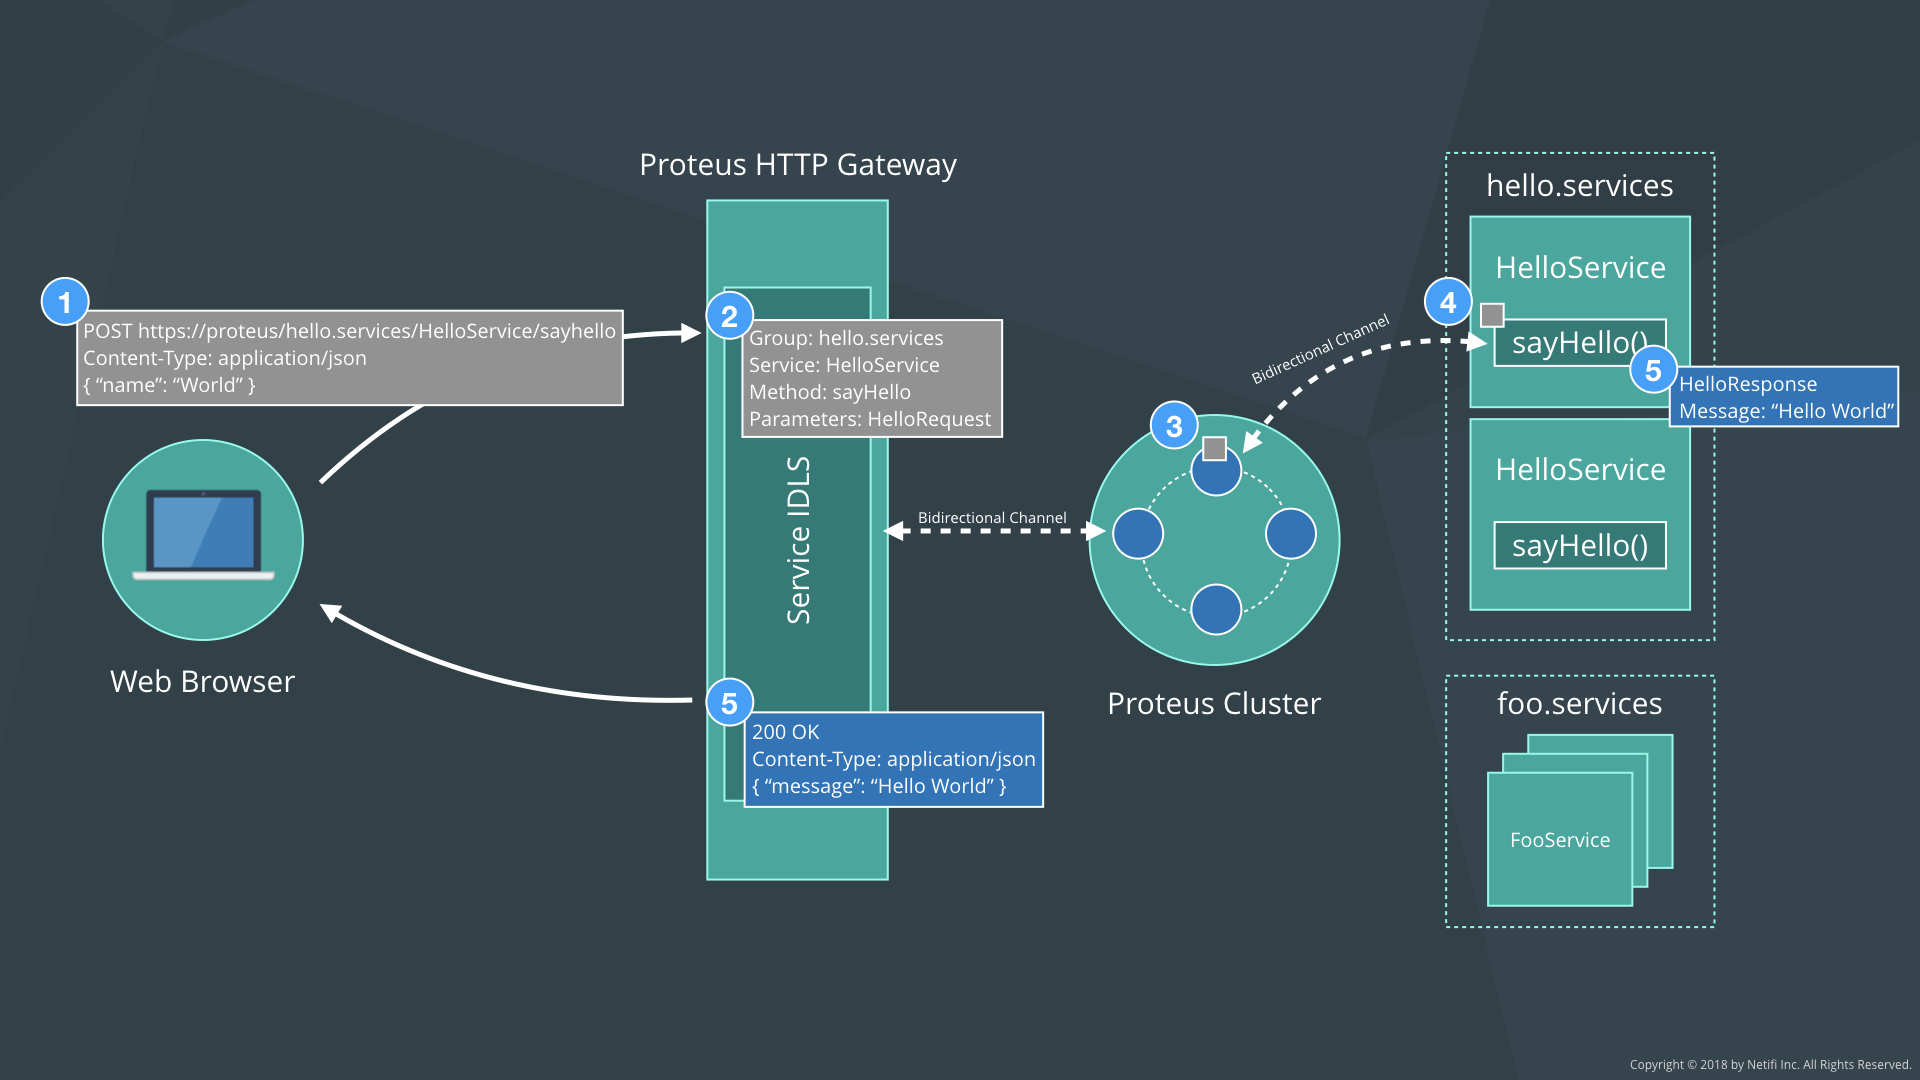
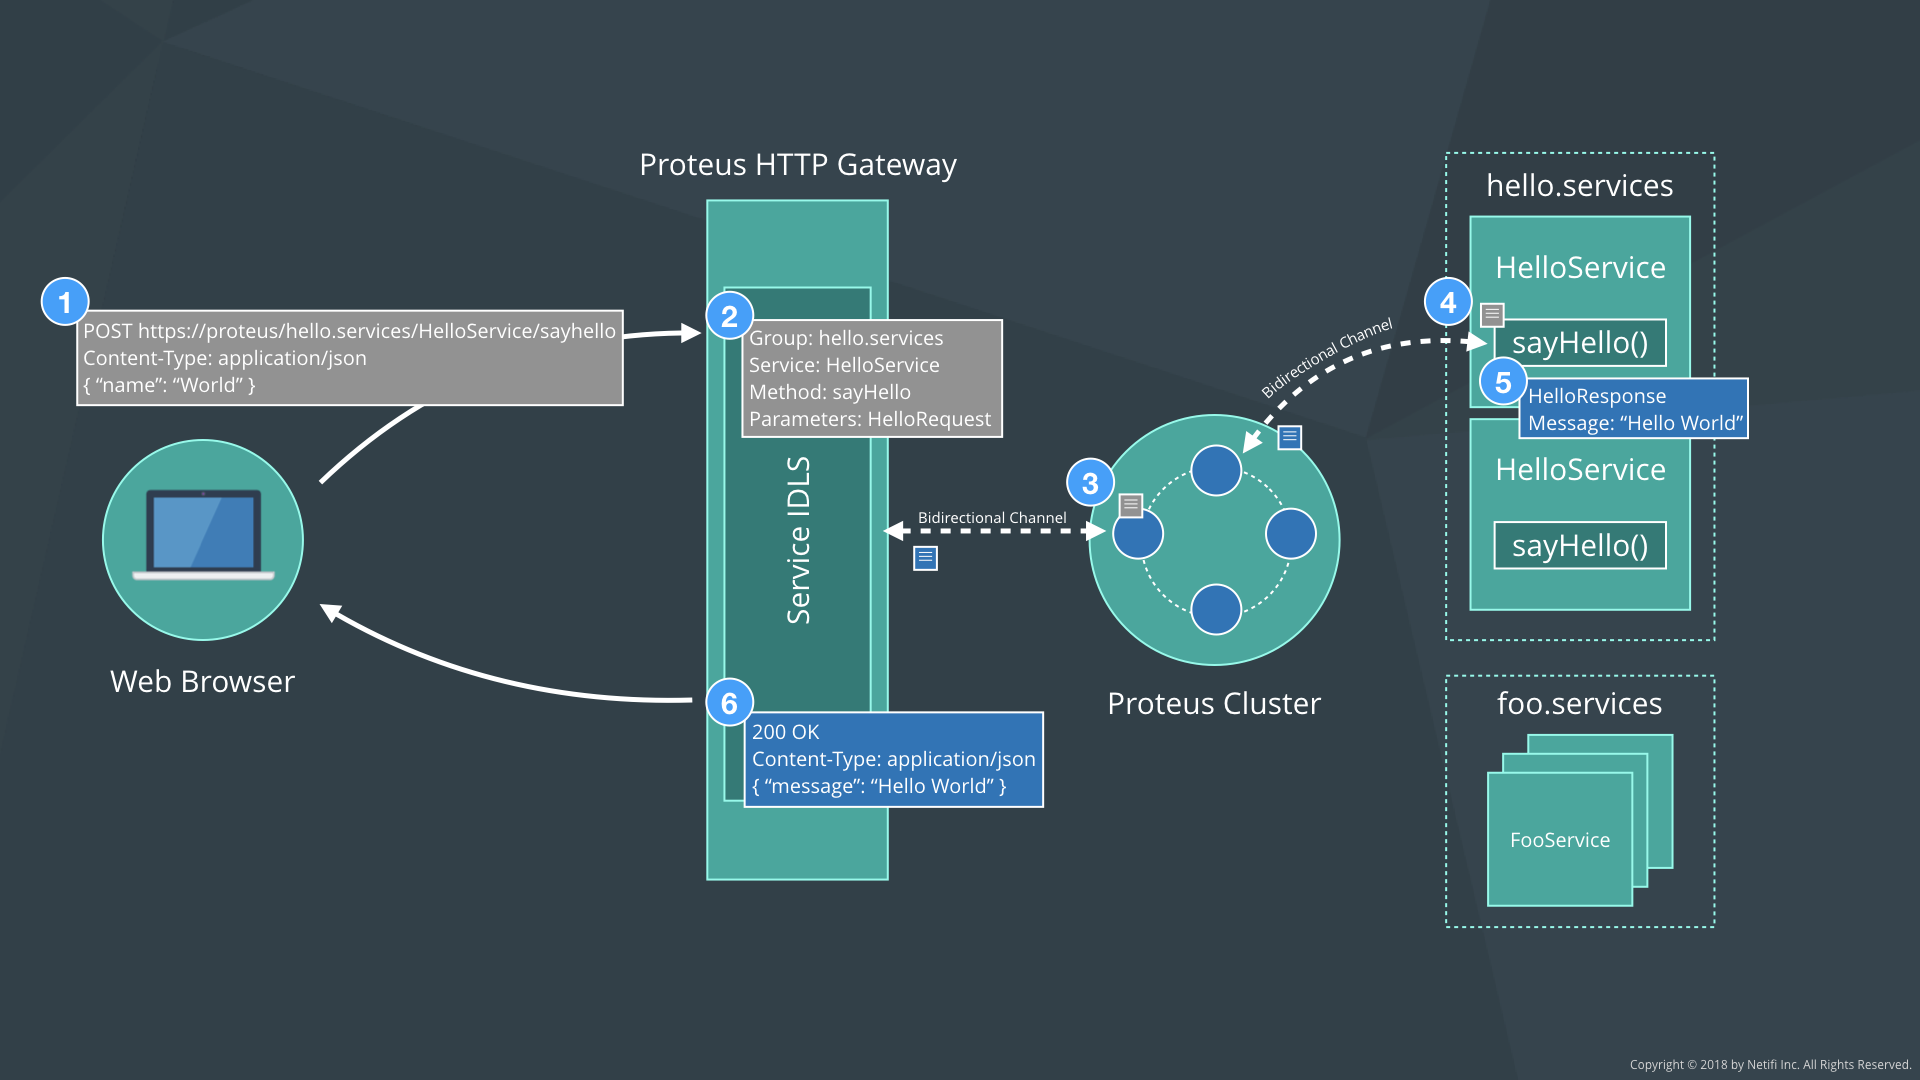
Doing work

diff --git a/README.md b/README.md
@@ -24,6 +24,14 @@ If a specific service instance is desired:
     
 The request body must be in JSON format and the field names much match those of the service IDL.
 
+### 2. Map HTTP Request to Proteus IDL
+
+### 3. Create Bidirectional Communication Channel to Group
+
+### 4. Invoke Service Method
+
+### 5. 
+
 ## Bugs and Feedback
 For bugs, questions, and discussions please use the [Github Issues](https://github.com/netifi-proteus/proteus-httpgateway/issues).
 
